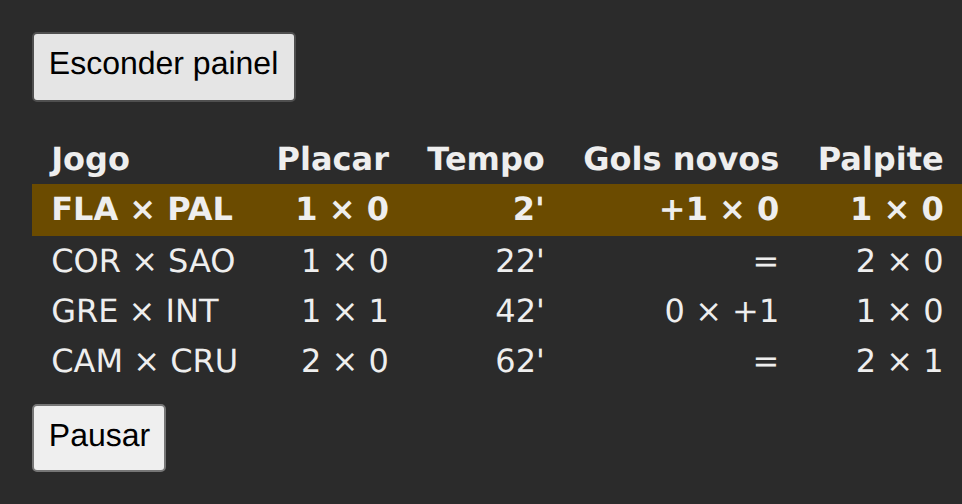
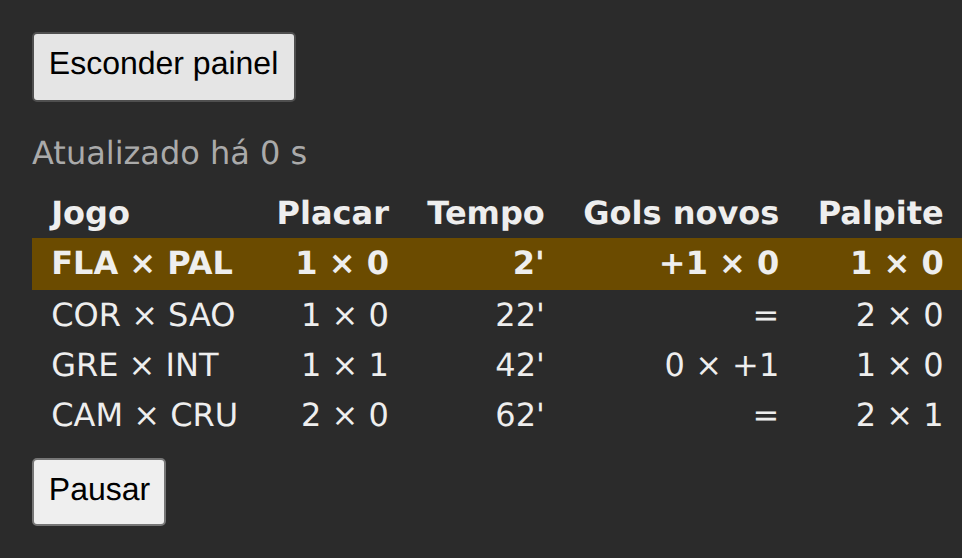
Mostra o "Atualizado há N s" no Solid dos Dados ao vivo
O Solid falha nas verificações do "Atualizado há" que a especificação
passou a pedir: não mostra há quanto tempo chegou o último lote, e o
painel não tem relógio para fechar ao sair da página.

A hora da chegada do lote e a do último tique viram sinais, e o texto
os lê no JSX, que o Solid atualiza sozinho quando um deles muda. O
relógio abre no corpo do componente, fora do efeito da inscrição, com
o onCleanup ali mesmo: o efeito reabre a inscrição a cada pausa, e o
relógio, que vive com o painel, só fecha quando o painel sai da tela.

Conferido: o teste de conformidade passa nas 19 verificações, no
Chromium; sem o onCleanup do relógio, falham 2, 3, 9 e 11, e sem o
setChegada, as quatro do "Atualizado há". As capturas saem iguais às
do Web Component.

Refs: tcc-51hf

diff --git a/implementacoes/dados-ao-vivo/solid/src/main.tsx b/implementacoes/dados-ao-vivo/solid/src/main.tsx
@@ -4,6 +4,8 @@ import {
   JOGOS,
   MENSAGENS,
   inscreverNosPlacares,
+  iniciarRelogio,
+  formatarAtualizacao,
   formatarPlacar,
   formatarTempo,
   golsNovos,
@@ -16,17 +18,25 @@ function PainelDePlacares() {
   const [pausado, setPausado] = createSignal(false);
   // Os dois últimos lotes: o atual dá o placar, o anterior, os gols novos.
   const [lotes, setLotes] = createSignal<{ anterior?: Lote; atual?: Lote }>({});
+  // A hora em que chegou o último lote e a do último tique do relógio.
+  const [chegada, setChegada] = createSignal<number>();
+  const [agora, setAgora] = createSignal(Date.now());
 
   // O efeito roda de novo quando pausado se altera; o onCleanup cancela a
   // inscrição antes disso e quando o painel sai da tela.
   createEffect(() => {
     if (pausado()) return;
     onCleanup(
-      inscreverNosPlacares((lote) =>
-        setLotes(({ atual }) => ({ anterior: atual, atual: lote })),
-      ),
+      inscreverNosPlacares((lote) => {
+        setLotes(({ atual }) => ({ anterior: atual, atual: lote }));
+        setChegada(Date.now());
+      }),
     );
   });
+
+  // O relógio vive com o painel, e não com a inscrição: fora do efeito, o
+  // onCleanup o para só quando o painel sai da tela.
+  onCleanup(iniciarRelogio(() => setAgora(Date.now())));
 
   const situacao = () =>
     pausado() ? MENSAGENS.pausado : lotes().atual ? "" : MENSAGENS.aguardando;
@@ -36,6 +46,7 @@ function PainelDePlacares() {
       <p class="situacao" role="status">
         {situacao()}
       </p>
+      <p class="atualizacao">{formatarAtualizacao(chegada(), agora())}</p>
       <table>
         <thead>
           <tr>
